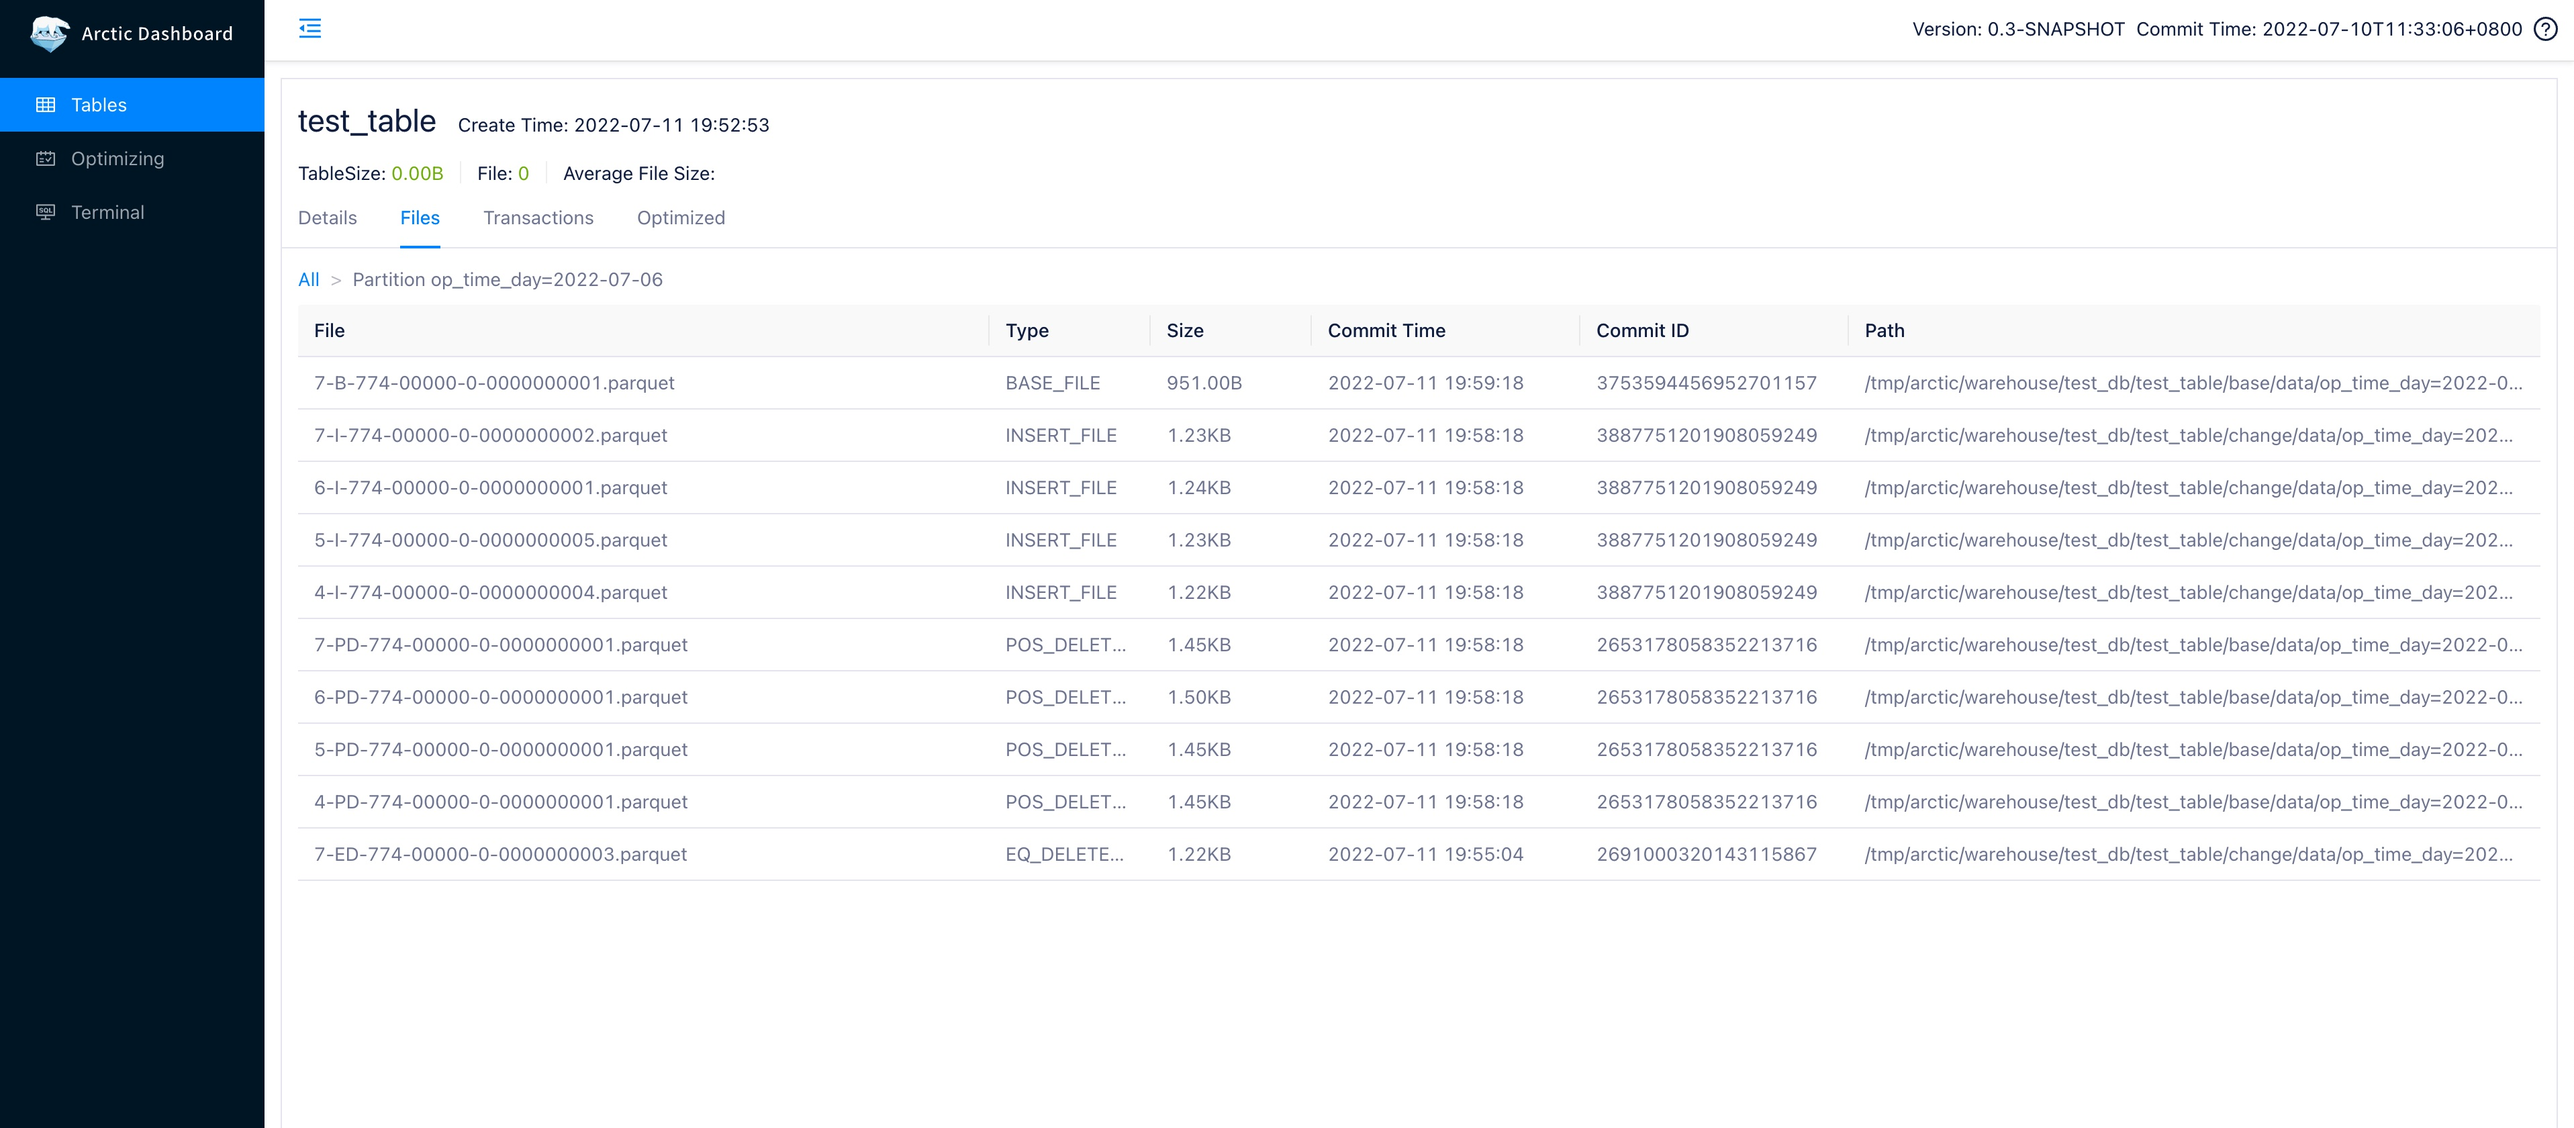
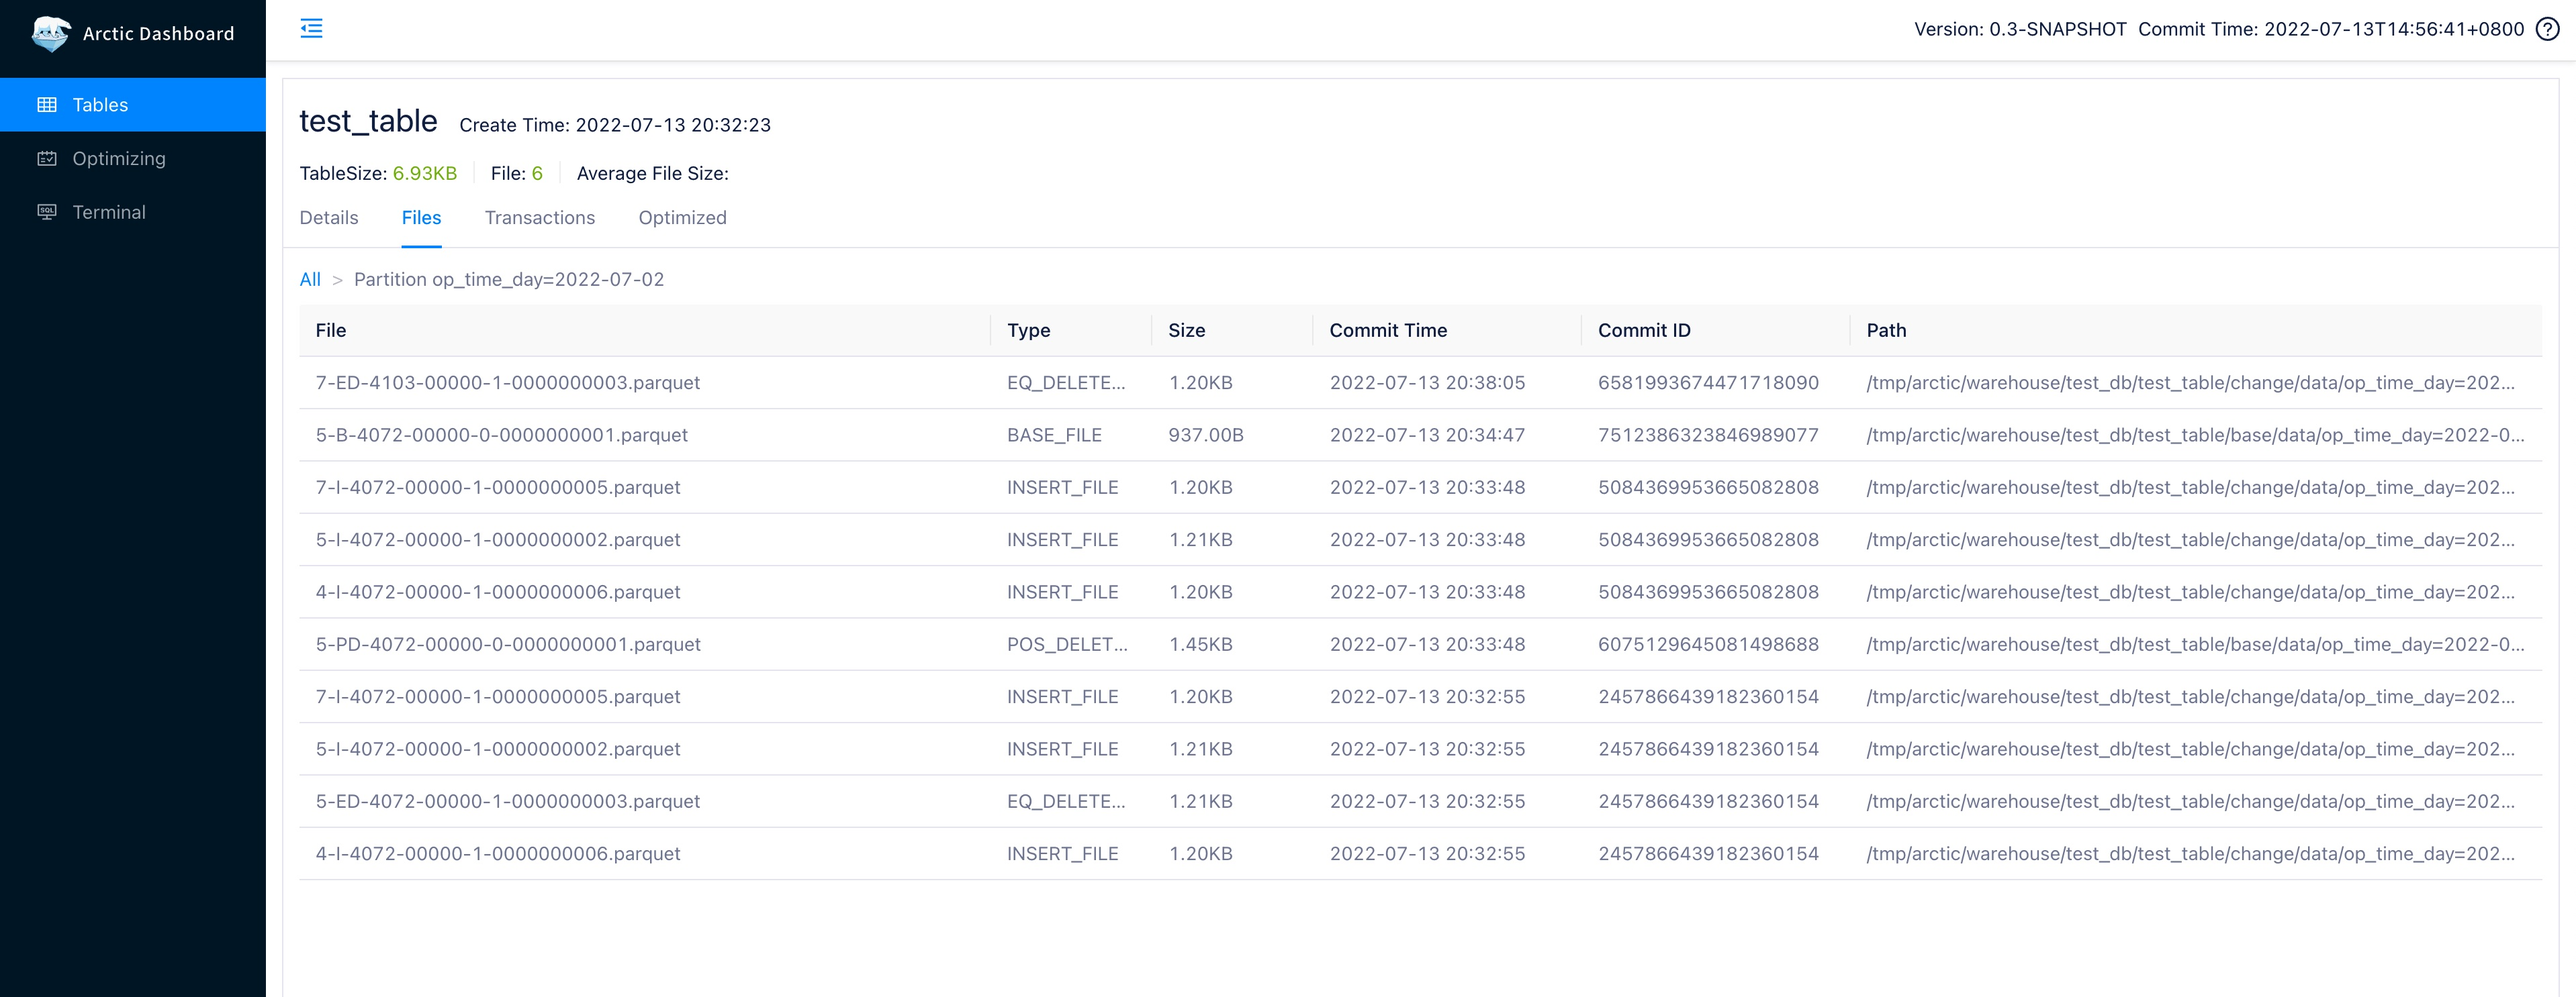
doc fix optimize image in quickstart

diff --git a/site/docs/ch/getting-started.md b/site/docs/ch/getting-started.md
@@ -265,7 +265,7 @@ select * from test_db.test_table order by id;
 
 **1.查看结构优化状态**
 
-启动optimizer之后，表的结构优化会自动触发。
+启动 optimizer 之后，表的结构优化会自动触发。
 登录并进入[AMS Dashboard](http://localhost:1630)，从左侧菜单进入到`Optimizing`页面，在`Tables`目录下可以看到当前所有表的结构优化状态。
 
 ![table_optimizing](images/table_optimizing.png)
@@ -287,7 +287,7 @@ select * from test_db.test_table order by id;
 **2.查看结构优化历史**
 
 从左侧菜单进入到`Tables`页面，选择测试表并进入到`Optimized目录`可以看到表的历史结构优化记录。
-如果已经完成[实时写入与读取](#_3)，测试表预期会进行两次结构优化，分别是一次minor optimize, 一次major optimize。
+如果已经完成[实时写入与读取](#_3)，测试表预期会进行3次结构优化，分别是2次 minor optimize, 一次 major optimize。
 
 ![optimize_history](images/optimize_history.png)
 
@@ -301,11 +301,11 @@ select * from test_db.test_table order by id;
 
 - Output：合并生成的文件个数和文件大小
 
-两次 Optimize 之后，文件情况如下
+3次 Optimize 之后，文件情况如下，以分区 op_time_day=2022-07-02 为例
 
 ![files_after_optimize](images/files_after_optimize.png)
 
-新增的4个 pos-delete 是 minor optimize 的结果，而新增的一个 base file 是 major optimize 的最终结果，由于当前的 pos-delete 的数据量还比较少，因此 major optimize 并没有将它们删除。
+新增的1个 pos-delete 是 minor optimize 的结果，而新增的1个 base file 是 major optimize 的结果，由于只有一行数据被删除，因此只有1个 base 文件和 pos-delete 文件合并生成了最终的 base file。
 
 更多有关结构优化的相关信息可以查看[结构优化的具体介绍](table-structure.md#_3)。
 
